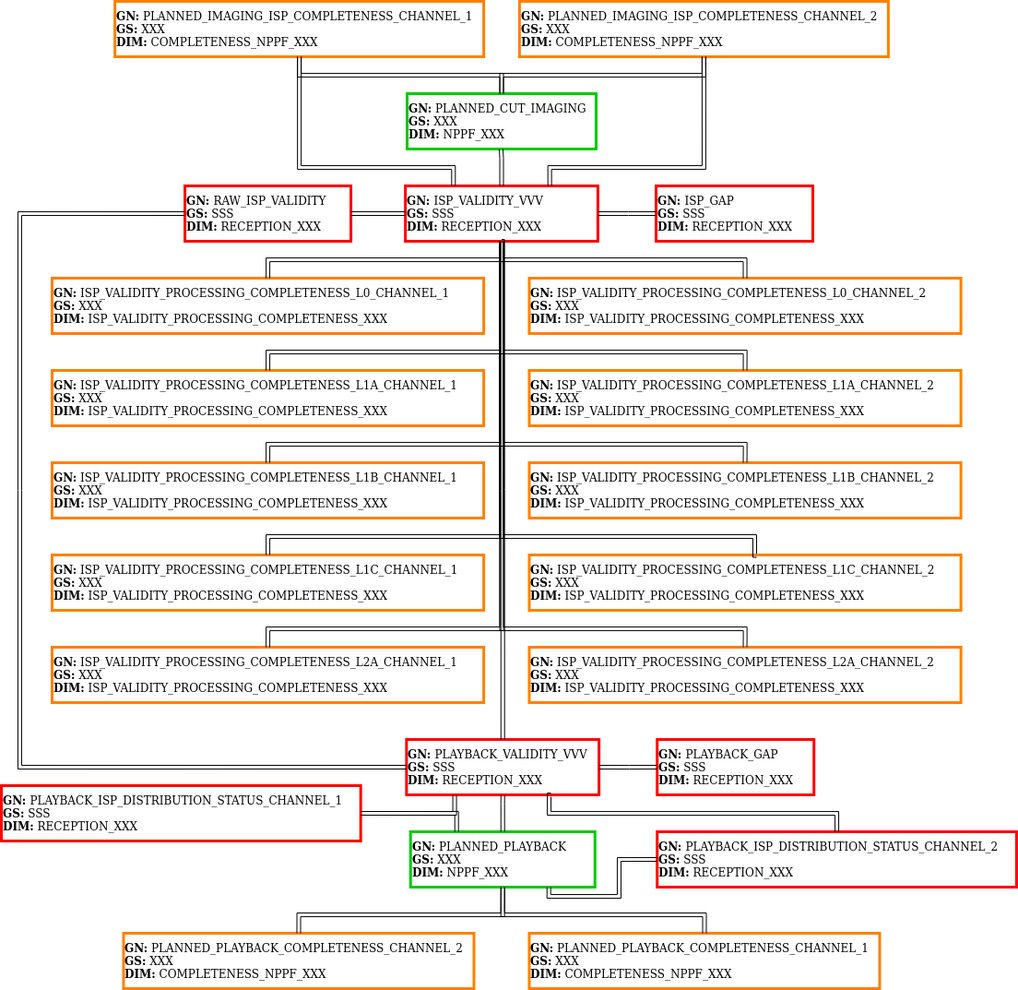
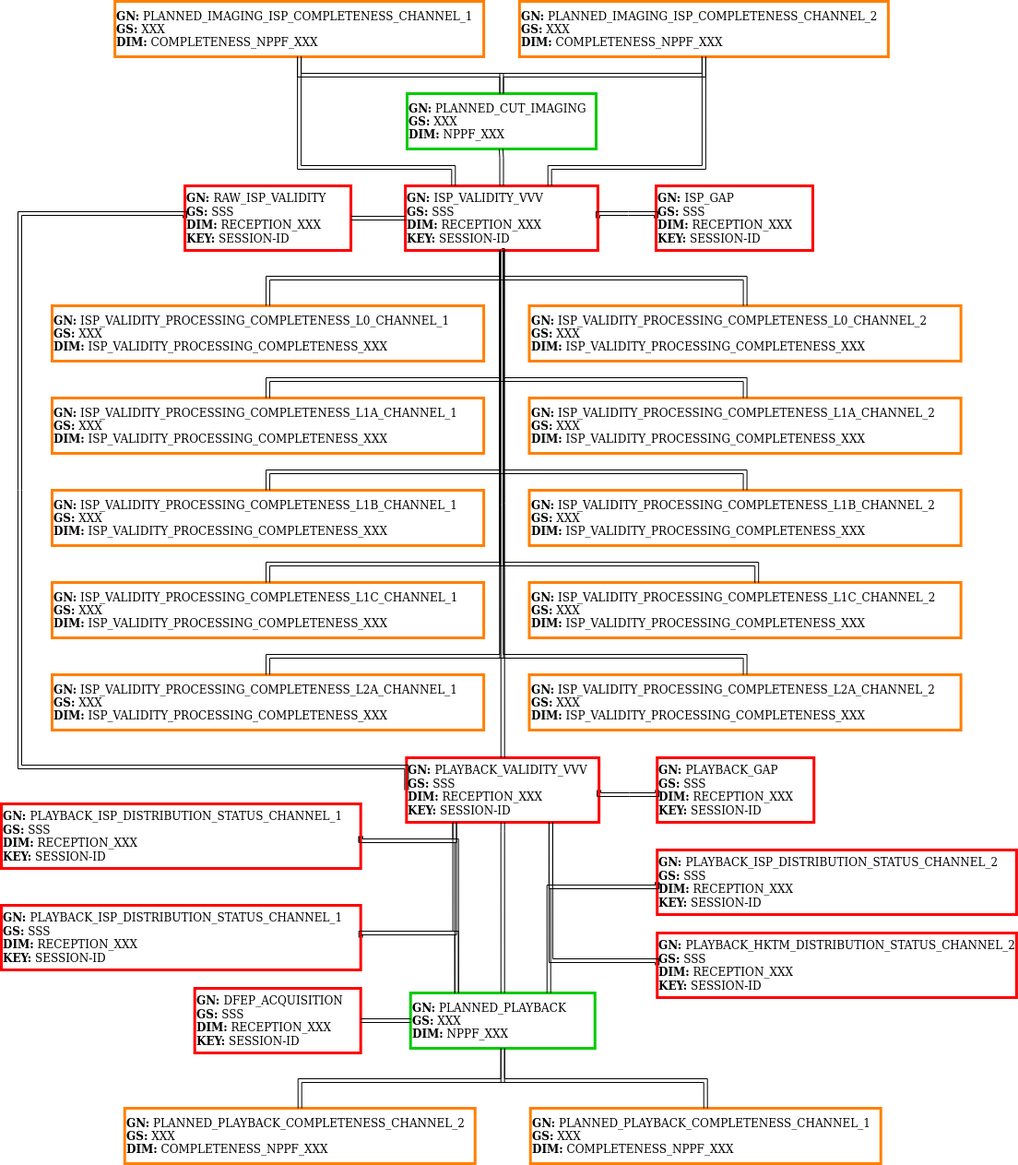
Finish documentation for REP_PASS file ingestion
Start documentation for REP_OPDPC file ingestion

Changed region(s): [[0.0, 0.0, 1.0, 1.0]]

diff --git a/doc/tex/ingestion_dfep_acquisition.tex b/doc/tex/ingestion_dfep_acquisition.tex
@@ -24,12 +24,12 @@ This module uses the following \acrshort{dim} signatures:
 
 Where XXX is the corresponding satellite id, SSS is the station ID and VVV is the \acrshort{vcid} number.
 
-The figure \ref{fg:structure_ingestion_dfep_acquisition} shows a simplified diagram of the structure of the data inserted (associated structure of values not included for simplicity).
+The figure \ref{fg:structure_ingestion_dfep_acquisition} shows a simplified diagram of the structure of events inserted (associated structure of values not included for simplicity).
 
 \begin{figure}[H]
   \begin{center}
 	\centering\includegraphics[width=150mm]{../fig/structure_ingestion_dfep_acquisition.png}
-	\caption{Structure of the data inserted by the ingestion module for the REP\_PASS\_[2|5] file}
+	\caption{Structure of events inserted by the ingestion module for the REP\_PASS\_[2|5] file}
 	\label{fg:structure_ingestion_dfep_acquisition}
   \end{center}
 \end{figure}
@@ -37,32 +37,32 @@ The figure \ref{fg:structure_ingestion_dfep_acquisition} shows a simplified diag
 The table \ref{tb:description_events_ingestion_dfep_acquisition} shows the description of the events inserted by the ingestion.
 
 \begin{landscape}
-\begin{longtable}{|M{0.15\linewidth}|M{0.05\linewidth}|M{0.15\linewidth}|M{0.2\linewidth}|M{0.15\linewidth}|M{0.15\linewidth}|}
-\hline \textbf{Gauge name} & \textbf{Gauge system}  & \textbf{DIM signature} & \textbf{Description} & \textbf{Start} & \textbf{Stop} \\ \hline
-\textbf{PLAYBACK\_VALIDITY\_VVV} & SSS & RECEPTION\_XXX & Event for representing the \textbf{ground acquisition operation} & UTC time associated to the start of the reception & UTC time associated to the stop of the reception \\ \hline
-\textbf{PLAYBACK\_GAP} & SSS & RECEPTION\_XXX & Event for representing a \textbf{gap in the ground acquisition operation} & UTC time associated to the start of the corresponding gap in the reception & UTC time associated to the stop of the corresponding gap in the reception \\ \hline
-\textbf{PLANNED\_PLAYBACK\_COMPLETENESS\_CHANNEL\_1} & XXX & COMPLETENESS\_NPPF\_XXX & Event for completing the \textbf{expectation of the planned playbacks through the channel 1} & Start of the reception through the channel 1 & Stop of the reception through the channel 1 \\ \hline
-\textbf{PLANNED\_PLAYBACK\_COMPLETENESS\_CHANNEL\_2} & XXX & COMPLETENESS\_NPPF\_XXX & Event for completing the \textbf{expectation of the planned playbacks through the channel 2} & Start of the reception through the channel 2 & Stop of the reception through the channel 2 \\ \hline
-\textbf{PLANNED\_IMAGING\_ISP\_COMPLETENESS\_CHANNEL\_1} & XXX & COMPLETENESS\_NPPF\_XXX & Event for completing the \textbf{expectation of the planned imaging sent through the channel 1} & Start of the first received scene thorugh the channel 1 of the corresponding continuous \acrshort{msi} segment & Stop of the last received scene thorugh the channel 1 of the corresponding continuous \acrshort{msi} segment \\ \hline
-\textbf{PLANNED\_IMAGING\_ISP\_COMPLETENESS\_CHANNEL\_2} & XXX & COMPLETENESS\_NPPF\_XXX & Event for completing the \textbf{expectation of the planned imaging sent through the channel 2} & Start of the first received scene thorugh the channel 2 of the corresponding continuous \acrshort{msi} segment & Stop of the last received scene thorugh the channel 2 of the corresponding continuous \acrshort{msi} segment \\ \hline
-\textbf{RAW\_ISP\_VALIDITY} & SSS & RECEPTION\_XXX & Event for representing the \textbf{ground acquisition operation} & Start of the first received scene & Stop of the last received scene \\ \hline
-\textbf{ISP\_VALIDITY} & SSS & RECEPTION\_XXX & Event for representing the \textbf{ground acquisition operation} & Start of the first received scene of the corresponding continuous \acrshort{msi} segment & Stop of the last received scene of the corresponding continuous \acrshort{msi} segment \\ \hline
-\textbf{ISP\_GAP} & SSS & RECEPTION\_XXX & Event for representing a \textbf{gap in the ground acquisition operation} & UTC time associated to the start of the corresponding continuous gap in the received MSI & UTC time associated to the stop of the corresponding continuous gap in the received MSI \\ \hline
-\textbf{PLAYBACK\_ISP\_DISTRIBUTION\_STATUS\_CHANNEL\_1} & SSS & RECEPTION\_XXX & Event for representing a \textbf{gap in the ground acquisition operation} & UTC time associated to the start of the \acrshort{msi} reception & UTC time associated to the stop of the \acrshort{msi} reception \\ \hline
-\textbf{PLAYBACK\_ISP\_DISTRIBUTION\_STATUS\_CHANNEL\_2} & SSS & RECEPTION\_XXX & Event for representing a \textbf{gap in the ground acquisition operation} & UTC time associated to the start of the \acrshort{msi} reception & UTC time associated to the stop of the \acrshort{msi} reception \\ \hline
-\textbf{PLAYBACK\_HKTM\_DISTRIBUTION\_STATUS\_CHANNEL\_1} & SSS & RECEPTION\_XXX & Event for representing a \textbf{gap in the ground acquisition operation} & UTC time associated to the start of the corresponding gap in the \acrshort{hktm} reception & UTC time associated to the stop of the corresponding gap in the \acrshort{hktm} reception \\ \hline
-\textbf{PLAYBACK\_HKTM\_DISTRIBUTION\_STATUS\_CHANNEL\_2} & SSS & RECEPTION\_XXX & Event for representing a \textbf{gap in the ground acquisition operation} & UTC time associated to the start of the corresponding gap in the \acrshort{hktm} reception & UTC time associated to the stop of the corresponding gap in the \acrshort{hktm} reception \\ \hline
-\textbf{DFEP\_ACQUISITION\_VALIDITY} & SSS & RECEPTION\_XXX & Event for representing a \textbf{gap in the ground acquisition operation} & UTC time associated to the validity start of the received file & UTC time associated to the validity stop of the received file \\ \hline
-\textbf{ISP\_VALIDITY\_PROCESSING\_COMPLETENESS\_L0\_CHANNEL\_1} & XXX & COMPLETENESS\_NPPF\_XXX & Event for representing the \textbf{expectation of the processing of the planned imaging for the L0} & Start of the first received scene of the corresponding continuous \acrshort{msi} segment & Stop of the last received scene of the corresponding continuous \acrshort{msi} segment \\ \hline
-\textbf{ISP\_VALIDITY\_PROCESSING\_COMPLETENESS\_L1A\_CHANNEL\_1} & XXX & COMPLETENESS\_NPPF\_XXX & Event for representing the \textbf{expectation of the processing of the planned imaging for the L0} & Start of the first received scene of the corresponding continuous \acrshort{msi} segment & Stop of the last received scene of the corresponding continuous \acrshort{msi} segment \\ \hline
-\textbf{ISP\_VALIDITY\_PROCESSING\_COMPLETENESS\_L1B\_CHANNEL\_1} & XXX & COMPLETENESS\_NPPF\_XXX & Event for representing the \textbf{expectation of the processing of the planned imaging for the L0} & Start of the first received scene of the corresponding continuous \acrshort{msi} segment & Stop of the last received scene of the corresponding continuous \acrshort{msi} segment \\ \hline
-\textbf{ISP\_VALIDITY\_PROCESSING\_COMPLETENESS\_L1C\_CHANNEL\_1} & XXX & COMPLETENESS\_NPPF\_XXX & Event for representing the \textbf{expectation of the processing of the planned imaging for the L0} & Start of the first received scene of the corresponding continuous \acrshort{msi} segment & Stop of the last received scene of the corresponding continuous \acrshort{msi} segment \\ \hline
-\textbf{ISP\_VALIDITY\_PROCESSING\_COMPLETENESS\_L2A\_CHANNEL\_1} & XXX & COMPLETENESS\_NPPF\_XXX & Event for representing the \textbf{expectation of the processing of the planned imaging for the L0} & Start of the first received scene of the corresponding continuous \acrshort{msi} segment & Stop of the last received scene of the corresponding continuous \acrshort{msi} segment \\ \hline
-\textbf{ISP\_VALIDITY\_PROCESSING\_COMPLETENESS\_L0\_CHANNEL\_2} & XXX & COMPLETENESS\_NPPF\_XXX & Event for representing the \textbf{expectation of the processing of the planned imaging for the L0} & Start of the first received scene of the corresponding continuous \acrshort{msi} segment & Stop of the last received scene of the corresponding continuous \acrshort{msi} segment \\ \hline
-\textbf{ISP\_VALIDITY\_PROCESSING\_COMPLETENESS\_L1A\_CHANNEL\_2} & XXX & COMPLETENESS\_NPPF\_XXX & Event for representing the \textbf{expectation of the processing of the planned imaging for the L0} & Start of the first received scene of the corresponding continuous \acrshort{msi} segment & Stop of the last received scene of the corresponding continuous \acrshort{msi} segment \\ \hline
-\textbf{ISP\_VALIDITY\_PROCESSING\_COMPLETENESS\_L1B\_CHANNEL\_2} & XXX & COMPLETENESS\_NPPF\_XXX & Event for representing the \textbf{expectation of the processing of the planned imaging for the L0} & Start of the first received scene of the corresponding continuous \acrshort{msi} segment & Stop of the last received scene of the corresponding continuous \acrshort{msi} segment \\ \hline
-\textbf{ISP\_VALIDITY\_PROCESSING\_COMPLETENESS\_L1C\_CHANNEL\_2} & XXX & COMPLETENESS\_NPPF\_XXX & Event for representing the \textbf{expectation of the processing of the planned imaging for the L0} & Start of the first received scene of the corresponding continuous \acrshort{msi} segment & Stop of the last received scene of the corresponding continuous \acrshort{msi} segment \\ \hline
-\textbf{ISP\_VALIDITY\_PROCESSING\_COMPLETENESS\_L2A\_CHANNEL\_2} & XXX & COMPLETENESS\_NPPF\_XXX & Event for representing the \textbf{expectation of the processing of the planned imaging for the L0} & Start of the first received scene of the corresponding continuous \acrshort{msi} segment & Stop of the last received scene of the corresponding continuous \acrshort{msi} segment \\ \hline
+\begin{longtable}{|M{0.15\linewidth}|M{0.05\linewidth}|M{0.10\linewidth}|M{0.10\linewidth}|M{0.15\linewidth}|M{0.15\linewidth}|M{0.15\linewidth}|}
+\hline \textbf{Gauge name} & \textbf{Gauge system} & \textbf{DIM signature} & \textbf{Insertion mode} & \textbf{Description} & \textbf{Start} & \textbf{Stop} \\ \hline
+\textbf{PLAYBACK\_VALIDITY\_VVV} & SSS & \- RECEPTION\_XXX & EVENT\_KEYS (insert) [KEY: SESSION-ID] & Event for representing the \textbf{ground acquisition operation} & UTC time associated to the start of the reception & UTC time associated to the stop of the reception \\ \hline
+\textbf{PLAYBACK\_GAP} & SSS & \- RECEPTION\_XXX & EVENT\_KEYS (insert) [KEY: SESSION-ID] & Event for representing a \textbf{gap in the ground acquisition operation} & UTC time associated to the start of the corresponding gap in the reception & UTC time associated to the stop of the corresponding gap in the reception \\ \hline
+\textbf{PLANNED\_PLAYBACK\_COMPLETENESS\_CHANNEL\_1} & XXX & \- COMPLETENESS\_NPPF\_XXX & ERASE\_and\_REPLACE\_per\_EVENT (insert) & Event for completing the \textbf{expectation of the planned playbacks through the channel 1} & Start of the reception through the channel 1 & Stop of the reception through the channel 1 \\ \hline
+\textbf{PLANNED\_PLAYBACK\_COMPLETENESS\_CHANNEL\_2} & XXX & \- COMPLETENESS\_NPPF\_XXX & ERASE\_and\_REPLACE\_per\_EVENT (insert) & Event for completing the \textbf{expectation of the planned playbacks through the channel 2} & Start of the reception through the channel 2 & Stop of the reception through the channel 2 \\ \hline
+\textbf{PLANNED\_IMAGING\_ISP\_COMPLETENESS\_CHANNEL\_1} & XXX & \- COMPLETENESS\_NPPF\_XXX & ERASE\_and\_REPLACE\_per\_EVENT (insert) & Event for completing the \textbf{expectation of the planned imaging sent through the channel 1} & Start of the first received scene thorugh the channel 1 of the corresponding continuous \acrshort{msi} segment & Stop of the last received scene thorugh the channel 1 of the corresponding continuous \acrshort{msi} segment \\ \hline
+\textbf{PLANNED\_IMAGING\_ISP\_COMPLETENESS\_CHANNEL\_2} & XXX & \- COMPLETENESS\_NPPF\_XXX & ERASE\_and\_REPLACE\_per\_EVENT (insert) & Event for completing the \textbf{expectation of the planned imaging sent through the channel 2} & Start of the first received scene thorugh the channel 2 of the corresponding continuous \acrshort{msi} segment & Stop of the last received scene thorugh the channel 2 of the corresponding continuous \acrshort{msi} segment \\ \hline
+\textbf{RAW\_ISP\_VALIDITY} & SSS & \- RECEPTION\_XXX & EVENT\_KEYS (insert) [KEY: SESSION-ID] & Event for representing the \textbf{ground acquisition operation} & Start of the first received scene & Stop of the last received scene \\ \hline
+\textbf{ISP\_VALIDITY} & SSS & \- RECEPTION\_XXX & EVENT\_KEYS (insert) [KEY: SESSION-ID] & Event for representing the \textbf{ground acquisition operation} & Start of the first received scene of the corresponding continuous \acrshort{msi} segment & Stop of the last received scene of the corresponding continuous \acrshort{msi} segment \\ \hline
+\textbf{ISP\_GAP} & SSS & \- RECEPTION\_XXX & EVENT\_KEYS (insert) [KEY: SESSION-ID] & Event for representing a \textbf{gap in the ground acquisition operation} & UTC time associated to the start of the corresponding continuous gap in the received MSI & UTC time associated to the stop of the corresponding continuous gap in the received MSI \\ \hline
+\textbf{PLAYBACK\_ISP\_DISTRIBUTION\_STATUS\_CHANNEL\_1} & SSS & \- RECEPTION\_XXX & EVENT\_KEYS (insert) [KEY: SESSION-ID] & Event for representing a \textbf{gap in the ground acquisition operation} & UTC time associated to the start of the \acrshort{msi} reception & UTC time associated to the stop of the \acrshort{msi} reception \\ \hline
+\textbf{PLAYBACK\_ISP\_DISTRIBUTION\_STATUS\_CHANNEL\_2} & SSS & \- RECEPTION\_XXX & EVENT\_KEYS (insert) [KEY: SESSION-ID] & Event for representing a \textbf{gap in the ground acquisition operation} & UTC time associated to the start of the \acrshort{msi} reception & UTC time associated to the stop of the \acrshort{msi} reception \\ \hline
+\textbf{PLAYBACK\_HKTM\_DISTRIBUTION\_STATUS\_CHANNEL\_1} & SSS & \- RECEPTION\_XXX & EVENT\_KEYS (insert) [KEY: SESSION-ID] & Event for representing a \textbf{gap in the ground acquisition operation} & UTC time associated to the start of the corresponding gap in the \acrshort{hktm} reception & UTC time associated to the stop of the corresponding gap in the \acrshort{hktm} reception \\ \hline
+\textbf{PLAYBACK\_HKTM\_DISTRIBUTION\_STATUS\_CHANNEL\_2} & SSS & \- RECEPTION\_XXX & EVENT\_KEYS (insert) [KEY: SESSION-ID] & Event for representing a \textbf{gap in the ground acquisition operation} & UTC time associated to the start of the corresponding gap in the \acrshort{hktm} reception & UTC time associated to the stop of the corresponding gap in the \acrshort{hktm} reception \\ \hline
+\textbf{DFEP\_ACQUISITION\_VALIDITY} & SSS & \- RECEPTION\_XXX & EVENT\_KEYS (insert) [KEY: SESSION-ID] & Event for representing a \textbf{gap in the ground acquisition operation} & UTC time associated to the validity start of the received file & UTC time associated to the validity stop of the received file \\ \hline
+\textbf{ISP\_VALIDITY\_PROCESSING\_COMPLETENESS\_L0\_CHANNEL\_1} & XXX & \- COMPLETENESS\_NPPF\_XXX & ERASE\_and\_REPLACE\_per\_EVENT (insert) & Event for representing the \textbf{expectation of the processing of the planned imaging for the L0} & Start of the first received scene of the corresponding continuous \acrshort{msi} segment & Stop of the last received scene of the corresponding continuous \acrshort{msi} segment \\ \hline
+\textbf{ISP\_VALIDITY\_PROCESSING\_COMPLETENESS\_L1A\_CHANNEL\_1} & XXX & \- COMPLETENESS\_NPPF\_XXX & ERASE\_and\_REPLACE\_per\_EVENT (insert) & Event for representing the \textbf{expectation of the processing of the planned imaging for the L0} & Start of the first received scene of the corresponding continuous \acrshort{msi} segment & Stop of the last received scene of the corresponding continuous \acrshort{msi} segment \\ \hline
+\textbf{ISP\_VALIDITY\_PROCESSING\_COMPLETENESS\_L1B\_CHANNEL\_1} & XXX & \- COMPLETENESS\_NPPF\_XXX & ERASE\_and\_REPLACE\_per\_EVENT (insert) & Event for representing the \textbf{expectation of the processing of the planned imaging for the L0} & Start of the first received scene of the corresponding continuous \acrshort{msi} segment & Stop of the last received scene of the corresponding continuous \acrshort{msi} segment \\ \hline
+\textbf{ISP\_VALIDITY\_PROCESSING\_COMPLETENESS\_L1C\_CHANNEL\_1} & XXX & \- COMPLETENESS\_NPPF\_XXX & ERASE\_and\_REPLACE\_per\_EVENT (insert) & Event for representing the \textbf{expectation of the processing of the planned imaging for the L0} & Start of the first received scene of the corresponding continuous \acrshort{msi} segment & Stop of the last received scene of the corresponding continuous \acrshort{msi} segment \\ \hline
+\textbf{ISP\_VALIDITY\_PROCESSING\_COMPLETENESS\_L2A\_CHANNEL\_1} & XXX & \- COMPLETENESS\_NPPF\_XXX & ERASE\_and\_REPLACE\_per\_EVENT (insert) & Event for representing the \textbf{expectation of the processing of the planned imaging for the L0} & Start of the first received scene of the corresponding continuous \acrshort{msi} segment & Stop of the last received scene of the corresponding continuous \acrshort{msi} segment \\ \hline
+\textbf{ISP\_VALIDITY\_PROCESSING\_COMPLETENESS\_L0\_CHANNEL\_2} & XXX & \- COMPLETENESS\_NPPF\_XXX & ERASE\_and\_REPLACE\_per\_EVENT (insert) & Event for representing the \textbf{expectation of the processing of the planned imaging for the L0} & Start of the first received scene of the corresponding continuous \acrshort{msi} segment & Stop of the last received scene of the corresponding continuous \acrshort{msi} segment \\ \hline
+\textbf{ISP\_VALIDITY\_PROCESSING\_COMPLETENESS\_L1A\_CHANNEL\_2} & XXX & \- COMPLETENESS\_NPPF\_XXX & ERASE\_and\_REPLACE\_per\_EVENT (insert) & Event for representing the \textbf{expectation of the processing of the planned imaging for the L0} & Start of the first received scene of the corresponding continuous \acrshort{msi} segment & Stop of the last received scene of the corresponding continuous \acrshort{msi} segment \\ \hline
+\textbf{ISP\_VALIDITY\_PROCESSING\_COMPLETENESS\_L1B\_CHANNEL\_2} & XXX & \- COMPLETENESS\_NPPF\_XXX & ERASE\_and\_REPLACE\_per\_EVENT (insert) & Event for representing the \textbf{expectation of the processing of the planned imaging for the L0} & Start of the first received scene of the corresponding continuous \acrshort{msi} segment & Stop of the last received scene of the corresponding continuous \acrshort{msi} segment \\ \hline
+\textbf{ISP\_VALIDITY\_PROCESSING\_COMPLETENESS\_L1C\_CHANNEL\_2} & XXX & \- COMPLETENESS\_NPPF\_XXX & ERASE\_and\_REPLACE\_per\_EVENT (insert) & Event for representing the \textbf{expectation of the processing of the planned imaging for the L0} & Start of the first received scene of the corresponding continuous \acrshort{msi} segment & Stop of the last received scene of the corresponding continuous \acrshort{msi} segment \\ \hline
+\textbf{ISP\_VALIDITY\_PROCESSING\_COMPLETENESS\_L2A\_CHANNEL\_2} & XXX & \- COMPLETENESS\_NPPF\_XXX & ERASE\_and\_REPLACE\_per\_EVENT (insert) & Event for representing the \textbf{expectation of the processing of the planned imaging for the L0} & Start of the first received scene of the corresponding continuous \acrshort{msi} segment & Stop of the last received scene of the corresponding continuous \acrshort{msi} segment \\ \hline
 \caption{Table describing the events associated to the ingestion}
 \label{tb:description_events_ingestion_dfep_acquisition}
 \end{longtable}

diff --git a/doc/tex/ingestion_eisp.tex b/doc/tex/ingestion_eisp.tex
@@ -26,12 +26,12 @@ This module uses the following \acrshort{dim} signatures:
 
 Where XXX is the corresponding satellite id, SSS is the station ID and VVV is the \acrshort{vcid} number.
 
-The figure \ref{fg:structure_ingestion_eisp} shows a simplified diagram of the structure of the data inserted (associated structure of values not included for simplicity).
+The figure \ref{fg:structure_ingestion_eisp} shows a simplified diagram of the structure of events inserted (associated structure of values not included for simplicity).
 
 \begin{figure}[H]
   \begin{center}
 	\centering\includegraphics[width=150mm]{../fig/structure_ingestion_eisp.png}
-	\caption{Structure of the data inserted by the ingestion module for the REP\_PASS\_[2|5] file}
+	\caption{Structure of events inserted by the ingestion module for the REP\_PASS\_[2|5] file}
 	\label{fg:structure_ingestion_eisp}
   \end{center}
 \end{figure}
@@ -39,27 +39,27 @@ The figure \ref{fg:structure_ingestion_eisp} shows a simplified diagram of the s
 The table \ref{tb:description_events_ingestion_eisp} shows the description of the events inserted by the ingestion.
 
 \begin{landscape}
-\begin{longtable}{|M{0.15\linewidth}|M{0.05\linewidth}|M{0.15\linewidth}|M{0.2\linewidth}|M{0.15\linewidth}|M{0.15\linewidth}|}
-\hline \textbf{Gauge name} & \textbf{Gauge system}  & \textbf{DIM signature} & \textbf{Description} & \textbf{Start} & \textbf{Stop} \\ \hline
-\textbf{PLAYBACK\_VALIDITY\_VVV} & SSS & RECEPTION\_XXX & Event for representing the \textbf{ground acquisition operation} & UTC time associated to the start of the reception & UTC time associated to the stop of the reception \\ \hline
-\textbf{PLAYBACK\_GAP} & SSS & RECEPTION\_XXX & Event for representing a \textbf{gap in the ground acquisition operation} & UTC time associated to the start of the corresponding gap in the reception & UTC time associated to the stop of the corresponding gap in the reception \\ \hline
-\textbf{PLANNED\_PLAYBACK\_COMPLETENESS\_CHANNEL\_1} & XXX & COMPLETENESS\_NPPF\_XXX & Event for completing the \textbf{expectation of the planned playbacks through the channel 1} & Start of the reception through the channel 1 & Stop of the reception through the channel 1 \\ \hline
-\textbf{PLANNED\_PLAYBACK\_COMPLETENESS\_CHANNEL\_2} & XXX & COMPLETENESS\_NPPF\_XXX & Event for completing the \textbf{expectation of the planned playbacks through the channel 2} & Start of the reception through the channel 2 & Stop of the reception through the channel 2 \\ \hline
-\textbf{PLANNED\_IMAGING\_ISP\_COMPLETENESS\_CHANNEL\_1} & XXX & COMPLETENESS\_NPPF\_XXX & Event for completing the \textbf{expectation of the planned imaging sent through the channel 1} & Start of the first received scene thorugh the channel 1 of the corresponding continuous \acrshort{msi} segment & Stop of the last received scene thorugh the channel 1 of the corresponding continuous \acrshort{msi} segment \\ \hline
-\textbf{PLANNED\_IMAGING\_ISP\_COMPLETENESS\_CHANNEL\_2} & XXX & COMPLETENESS\_NPPF\_XXX & Event for completing the \textbf{expectation of the planned imaging sent through the channel 2} & Start of the first received scene thorugh the channel 2 of the corresponding continuous \acrshort{msi} segment & Stop of the last received scene thorugh the channel 2 of the corresponding continuous \acrshort{msi} segment \\ \hline
-\textbf{RAW\_ISP\_VALIDITY} & SSS & RECEPTION\_XXX & Event for representing the \textbf{ground acquisition operation} & Start of the first received scene & Stop of the last received scene \\ \hline
-\textbf{ISP\_VALIDITY} & SSS & RECEPTION\_XXX & Event for representing the \textbf{ground acquisition operation} & Start of the first received scene of the corresponding continuous \acrshort{msi} segment & Stop of the last received scene of the corresponding continuous \acrshort{msi} segment \\ \hline
-\textbf{ISP\_GAP} & SSS & RECEPTION\_XXX & Event for representing a \textbf{gap in the ground acquisition operation} & UTC time associated to the start of the corresponding continuous gap in the received MSI & UTC time associated to the stop of the corresponding continuous gap in the received MSI \\ \hline
-\textbf{ISP\_VALIDITY\_PROCESSING\_COMPLETENESS\_L0\_CHANNEL\_1} & XXX & COMPLETENESS\_NPPF\_XXX & Event for representing the \textbf{expectation of the processing of the planned imaging for the L0} & Start of the first received scene of the corresponding continuous \acrshort{msi} segment & Stop of the last received scene of the corresponding continuous \acrshort{msi} segment \\ \hline
-\textbf{ISP\_VALIDITY\_PROCESSING\_COMPLETENESS\_L1A\_CHANNEL\_1} & XXX & COMPLETENESS\_NPPF\_XXX & Event for representing the \textbf{expectation of the processing of the planned imaging for the L0} & Start of the first received scene of the corresponding continuous \acrshort{msi} segment & Stop of the last received scene of the corresponding continuous \acrshort{msi} segment \\ \hline
-\textbf{ISP\_VALIDITY\_PROCESSING\_COMPLETENESS\_L1B\_CHANNEL\_1} & XXX & COMPLETENESS\_NPPF\_XXX & Event for representing the \textbf{expectation of the processing of the planned imaging for the L0} & Start of the first received scene of the corresponding continuous \acrshort{msi} segment & Stop of the last received scene of the corresponding continuous \acrshort{msi} segment \\ \hline
-\textbf{ISP\_VALIDITY\_PROCESSING\_COMPLETENESS\_L1C\_CHANNEL\_1} & XXX & COMPLETENESS\_NPPF\_XXX & Event for representing the \textbf{expectation of the processing of the planned imaging for the L0} & Start of the first received scene of the corresponding continuous \acrshort{msi} segment & Stop of the last received scene of the corresponding continuous \acrshort{msi} segment \\ \hline
-\textbf{ISP\_VALIDITY\_PROCESSING\_COMPLETENESS\_L2A\_CHANNEL\_1} & XXX & COMPLETENESS\_NPPF\_XXX & Event for representing the \textbf{expectation of the processing of the planned imaging for the L0} & Start of the first received scene of the corresponding continuous \acrshort{msi} segment & Stop of the last received scene of the corresponding continuous \acrshort{msi} segment \\ \hline
-\textbf{ISP\_VALIDITY\_PROCESSING\_COMPLETENESS\_L0\_CHANNEL\_2} & XXX & COMPLETENESS\_NPPF\_XXX & Event for representing the \textbf{expectation of the processing of the planned imaging for the L0} & Start of the first received scene of the corresponding continuous \acrshort{msi} segment & Stop of the last received scene of the corresponding continuous \acrshort{msi} segment \\ \hline
-\textbf{ISP\_VALIDITY\_PROCESSING\_COMPLETENESS\_L1A\_CHANNEL\_2} & XXX & COMPLETENESS\_NPPF\_XXX & Event for representing the \textbf{expectation of the processing of the planned imaging for the L0} & Start of the first received scene of the corresponding continuous \acrshort{msi} segment & Stop of the last received scene of the corresponding continuous \acrshort{msi} segment \\ \hline
-\textbf{ISP\_VALIDITY\_PROCESSING\_COMPLETENESS\_L1B\_CHANNEL\_2} & XXX & COMPLETENESS\_NPPF\_XXX & Event for representing the \textbf{expectation of the processing of the planned imaging for the L0} & Start of the first received scene of the corresponding continuous \acrshort{msi} segment & Stop of the last received scene of the corresponding continuous \acrshort{msi} segment \\ \hline
-\textbf{ISP\_VALIDITY\_PROCESSING\_COMPLETENESS\_L1C\_CHANNEL\_2} & XXX & COMPLETENESS\_NPPF\_XXX & Event for representing the \textbf{expectation of the processing of the planned imaging for the L0} & Start of the first received scene of the corresponding continuous \acrshort{msi} segment & Stop of the last received scene of the corresponding continuous \acrshort{msi} segment \\ \hline
-\textbf{ISP\_VALIDITY\_PROCESSING\_COMPLETENESS\_L2A\_CHANNEL\_2} & XXX & COMPLETENESS\_NPPF\_XXX & Event for representing the \textbf{expectation of the processing of the planned imaging for the L0} & Start of the first received scene of the corresponding continuous \acrshort{msi} segment & Stop of the last received scene of the corresponding continuous \acrshort{msi} segment \\ \hline
+\begin{longtable}{|M{0.15\linewidth}|M{0.05\linewidth}|M{0.10\linewidth}|M{0.10\linewidth}|M{0.15\linewidth}|M{0.15\linewidth}|M{0.15\linewidth}|}
+\hline \textbf{Gauge name} & \textbf{Gauge system} & \textbf{DIM signature} & \textbf{Insertion mode} & \textbf{Description} & \textbf{Start} & \textbf{Stop} \\ \hline
+\textbf{PLAYBACK\_VALIDITY\_VVV} & SSS & \- RECEPTION\_XXX & EVENT\_KEYS (insert) [KEY: SESSION-ID\_CHANNEL\_[1|2]] & Event for representing the \textbf{ground acquisition operation} & UTC time associated to the start of the reception & UTC time associated to the stop of the reception \\ \hline
+\textbf{PLAYBACK\_GAP} & SSS & \- RECEPTION\_XXX & EVENT\_KEYS (insert) [KEY: SESSION-ID\_CHANNEL\_[1|2]] & Event for representing a \textbf{gap in the ground acquisition operation} & UTC time associated to the start of the corresponding gap in the reception & UTC time associated to the stop of the corresponding gap in the reception \\ \hline
+\textbf{PLANNED\_PLAYBACK\_COMPLETENESS\_CHANNEL\_1} & XXX & \- COMPLETENESS\_NPPF\_XXX & ERASE\_and\_REPLACE\_per\_EVENT (insert) & Event for completing the \textbf{expectation of the planned playbacks through the channel 1} & Start of the reception through the channel 1 & Stop of the reception through the channel 1 \\ \hline
+\textbf{PLANNED\_PLAYBACK\_COMPLETENESS\_CHANNEL\_2} & XXX & \- COMPLETENESS\_NPPF\_XXX & ERASE\_and\_REPLACE\_per\_EVENT (insert) & Event for completing the \textbf{expectation of the planned playbacks through the channel 2} & Start of the reception through the channel 2 & Stop of the reception through the channel 2 \\ \hline
+\textbf{PLANNED\_IMAGING\_ISP\_COMPLETENESS\_CHANNEL\_1} & XXX & \- COMPLETENESS\_NPPF\_XXX & ERASE\_and\_REPLACE\_per\_EVENT (insert) & Event for completing the \textbf{expectation of the planned imaging sent through the channel 1} & Start of the first received scene thorugh the channel 1 of the corresponding continuous \acrshort{msi} segment & Stop of the last received scene thorugh the channel 1 of the corresponding continuous \acrshort{msi} segment \\ \hline
+\textbf{PLANNED\_IMAGING\_ISP\_COMPLETENESS\_CHANNEL\_2} & XXX & \- COMPLETENESS\_NPPF\_XXX & ERASE\_and\_REPLACE\_per\_EVENT (insert) & Event for completing the \textbf{expectation of the planned imaging sent through the channel 2} & Start of the first received scene thorugh the channel 2 of the corresponding continuous \acrshort{msi} segment & Stop of the last received scene thorugh the channel 2 of the corresponding continuous \acrshort{msi} segment \\ \hline
+\textbf{RAW\_ISP\_VALIDITY} & SSS & \- RECEPTION\_XXX & EVENT\_KEYS (insert) [KEY: SESSION-ID\_CHANNEL\_[1|2]] & Event for representing the \textbf{ground acquisition operation} & Start of the first received scene & Stop of the last received scene \\ \hline
+\textbf{ISP\_VALIDITY} & SSS & \- RECEPTION\_XXX & EVENT\_KEYS (insert) [KEY: SESSION-ID\_CHANNEL\_[1|2]] & Event for representing the \textbf{ground acquisition operation} & Start of the first received scene of the corresponding continuous \acrshort{msi} segment & Stop of the last received scene of the corresponding continuous \acrshort{msi} segment \\ \hline
+\textbf{ISP\_GAP} & SSS & \- RECEPTION\_XXX & EVENT\_KEYS (insert) [KEY: SESSION-ID\_CHANNEL\_[1|2]] & Event for representing a \textbf{gap in the ground acquisition operation} & UTC time associated to the start of the corresponding continuous gap in the received MSI & UTC time associated to the stop of the corresponding continuous gap in the received MSI \\ \hline
+\textbf{ISP\_VALIDITY\_PROCESSING\_COMPLETENESS\_L0\_CHANNEL\_1} & XXX & \- COMPLETENESS\_NPPF\_XXX & ERASE\_and\_REPLACE\_per\_EVENT (insert) & Event for representing the \textbf{expectation of the processing of the planned imaging for the L0} & Start of the first received scene of the corresponding continuous \acrshort{msi} segment & Stop of the last received scene of the corresponding continuous \acrshort{msi} segment \\ \hline
+\textbf{ISP\_VALIDITY\_PROCESSING\_COMPLETENESS\_L1A\_CHANNEL\_1} & XXX & \- COMPLETENESS\_NPPF\_XXX & ERASE\_and\_REPLACE\_per\_EVENT (insert) & Event for representing the \textbf{expectation of the processing of the planned imaging for the L0} & Start of the first received scene of the corresponding continuous \acrshort{msi} segment & Stop of the last received scene of the corresponding continuous \acrshort{msi} segment \\ \hline
+\textbf{ISP\_VALIDITY\_PROCESSING\_COMPLETENESS\_L1B\_CHANNEL\_1} & XXX & \- COMPLETENESS\_NPPF\_XXX & ERASE\_and\_REPLACE\_per\_EVENT (insert) & Event for representing the \textbf{expectation of the processing of the planned imaging for the L0} & Start of the first received scene of the corresponding continuous \acrshort{msi} segment & Stop of the last received scene of the corresponding continuous \acrshort{msi} segment \\ \hline
+\textbf{ISP\_VALIDITY\_PROCESSING\_COMPLETENESS\_L1C\_CHANNEL\_1} & XXX & \- COMPLETENESS\_NPPF\_XXX & ERASE\_and\_REPLACE\_per\_EVENT (insert) & Event for representing the \textbf{expectation of the processing of the planned imaging for the L0} & Start of the first received scene of the corresponding continuous \acrshort{msi} segment & Stop of the last received scene of the corresponding continuous \acrshort{msi} segment \\ \hline
+\textbf{ISP\_VALIDITY\_PROCESSING\_COMPLETENESS\_L2A\_CHANNEL\_1} & XXX & \- COMPLETENESS\_NPPF\_XXX & ERASE\_and\_REPLACE\_per\_EVENT (insert) & Event for representing the \textbf{expectation of the processing of the planned imaging for the L0} & Start of the first received scene of the corresponding continuous \acrshort{msi} segment & Stop of the last received scene of the corresponding continuous \acrshort{msi} segment \\ \hline
+\textbf{ISP\_VALIDITY\_PROCESSING\_COMPLETENESS\_L0\_CHANNEL\_2} & XXX & \- COMPLETENESS\_NPPF\_XXX & ERASE\_and\_REPLACE\_per\_EVENT (insert) & Event for representing the \textbf{expectation of the processing of the planned imaging for the L0} & Start of the first received scene of the corresponding continuous \acrshort{msi} segment & Stop of the last received scene of the corresponding continuous \acrshort{msi} segment \\ \hline
+\textbf{ISP\_VALIDITY\_PROCESSING\_COMPLETENESS\_L1A\_CHANNEL\_2} & XXX & \- COMPLETENESS\_NPPF\_XXX & ERASE\_and\_REPLACE\_per\_EVENT (insert) & Event for representing the \textbf{expectation of the processing of the planned imaging for the L0} & Start of the first received scene of the corresponding continuous \acrshort{msi} segment & Stop of the last received scene of the corresponding continuous \acrshort{msi} segment \\ \hline
+\textbf{ISP\_VALIDITY\_PROCESSING\_COMPLETENESS\_L1B\_CHANNEL\_2} & XXX & \- COMPLETENESS\_NPPF\_XXX & ERASE\_and\_REPLACE\_per\_EVENT (insert) & Event for representing the \textbf{expectation of the processing of the planned imaging for the L0} & Start of the first received scene of the corresponding continuous \acrshort{msi} segment & Stop of the last received scene of the corresponding continuous \acrshort{msi} segment \\ \hline
+\textbf{ISP\_VALIDITY\_PROCESSING\_COMPLETENESS\_L1C\_CHANNEL\_2} & XXX & \- COMPLETENESS\_NPPF\_XXX & ERASE\_and\_REPLACE\_per\_EVENT (insert) & Event for representing the \textbf{expectation of the processing of the planned imaging for the L0} & Start of the first received scene of the corresponding continuous \acrshort{msi} segment & Stop of the last received scene of the corresponding continuous \acrshort{msi} segment \\ \hline
+\textbf{ISP\_VALIDITY\_PROCESSING\_COMPLETENESS\_L2A\_CHANNEL\_2} & XXX & \- COMPLETENESS\_NPPF\_XXX & ERASE\_and\_REPLACE\_per\_EVENT (insert) & Event for representing the \textbf{expectation of the processing of the planned imaging for the L0} & Start of the first received scene of the corresponding continuous \acrshort{msi} segment & Stop of the last received scene of the corresponding continuous \acrshort{msi} segment \\ \hline
 \caption{Table describing the events associated to the ingestion}
 \label{tb:description_events_ingestion_eisp}
 \end{longtable}

diff --git a/doc/tex/ingestion_orbpre.tex b/doc/tex/ingestion_orbpre.tex
@@ -24,12 +24,12 @@ This module uses the following \acrshort{dim} signatures:
 
 Where XXX is the corresponding satellite id.
 
-The figure \ref{fg:structure_ingestion_orbpre} shows a simplified diagram of the structure of the data inserted (associated structure of values not included for simplicity).
+The figure \ref{fg:structure_ingestion_orbpre} shows a simplified diagram of the structure of events inserted (associated structure of values not included for simplicity).
 
 \begin{figure}[H]
   \begin{center}
 	\centering\includegraphics[width=150mm]{../fig/structure_ingestion_orbpre.png}
-	\caption{Structure of the data inserted by the ingestion module for the MPL\_ORBPRE file}
+	\caption{Structure of events inserted by the ingestion module for the MPL\_ORBPRE file}
 	\label{fg:structure_ingestion_orbpre}
   \end{center}
 \end{figure}
@@ -41,7 +41,7 @@ The table \ref{tb:description_events_ingestion_orbpre} shows the description of 
 \begin{landscape}
 \begin{longtable}{|M{0.15\linewidth}|M{0.05\linewidth}|M{0.10\linewidth}|M{0.10\linewidth}|M{0.15\linewidth}|M{0.15\linewidth}|M{0.15\linewidth}|}
 \hline \textbf{Gauge name} & \textbf{Gauge system} & \textbf{DIM signature} & \textbf{Insertion mode} & \textbf{Description} & \textbf{Start} & \textbf{Stop} \\ \hline
-\textbf{ORBIT\_PREDICTION} & XXX & ORBIT\_PREDICTION\_XXX\_YYY & EVENT\_KEYS (insert) & Event for representing the \textbf{orbit predition information of a specific orbit} & UTC time related to the ANX of orbit N & UTC time related to the ANX of orbit N + 1 \\ \hline
+\textbf{ORBIT\_PREDICTION} & XXX & ORBIT\_PREDICTION\_XXX\_YYY & EVENT\_KEYS (insert) [KEY: ORBIT\_PREDICTION\_XXX\_YYY] & Event for representing the \textbf{orbit predition information of a specific orbit} & UTC time related to the ANX of orbit N & UTC time related to the ANX of orbit N + 1 \\ \hline
 \textbf{***\_CORRECTION} & XXX & \- CORRECTED\_NPPF\_XXX & ERASE\_and\_REPLACE (insert\_and\_erase) & Event for representing the \textbf{planning events corrected using the orbit prediction events} & Start of the planned event corrected using the ORBPRE & Stop of the planned event corrected using the ORBPRE \\ \hline
 \textbf{DFEP\_SCHEDULE\_COMPLETENESS} & XXX & \- COMPLETENESS\_NPPF\_XXX & ERASE\_and\_REPLACE (insert\_and\_erase) & Event for representing the \textbf{expectation of the DFEP schedule} & Corrected start of the planned playback + 2s (SAD/HKTM) or + 9s (MSI); (if start \textgreater  stop) Corrected stop of the planned playback - 4s & Start (SAD/HKTM) or Corrected stop of the planned playback - 9s (MSI); (if start \textgreater  stop) Corrected stop of the planned playback - 3s \\ \hline
 \textbf{STATION\_SCHEDULE\_COMPLETENESS} & XXX & \- COMPLETENESS\_NPPF\_XXX & ERASE\_and\_REPLACE (insert\_and\_erase) & Event for representing the \textbf{expectation of the Station schedule} & Corrected start of the planned playback + 2s (SAD/HKTM) or + 9s (MSI); (if start \textgreater  stop) Corrected stop of the planned playback - 4s & Start (SAD/HKTM) or Corrected stop of the planned playback - 9s (MSI); (if start \textgreater  stop) Corrected stop of the planned playback - 3s \\ \hline
@@ -58,3 +58,47 @@ The table \ref{tb:description_events_ingestion_orbpre} shows the description of 
 \label{tb:description_events_ingestion_orbpre}
 \end{longtable}
 \end{landscape}
+
+\section{Ingestion details}
+
+This section describes some ingestion details for inserting the data. In particular:
+
+\begin{itemize} 
+
+\item The algorithm to correct the timing of the planning events
+  
+\end{itemize}
+
+The algorithm to correct the timing of the planning events is as follows:
+
+For every planning event:
+
+\begin{itemize} 
+
+\item Get satellite ID, start and stop orbits and start and stop angles.
+
+\item Get the \acrshort{anx} time from the orbit prediction information covering the previous orbits and the following ones
+
+\item Apply the following formula to the start and stop angles (\(\alpha\)) using the orbital period (p) and the corresponding \acrshort{anx} timing (t):
+
+  \(sin_1 = sin(\alpha)\)
+
+  \(sin_2 = sin(2*\alpha)\)
+
+  \(cos_1 = cos(\alpha)\)
+
+  \(cos_2 = cos(2*\alpha)\)
+
+  \(cos_3 = cos(3*\alpha)\)
+
+  Adjust angle to a circunference (perfect distribution in 360º):
+  
+  \(m = \alpha - 0.13175612 - 2*(-0.0001529)*sin_1 - 2*(-0.0660818)*cos_1 - 2*0.16855853*sin_2 - 2*(-0.0007759)*cos_2 - 2*0.0009872*cos_3 - 2*0.00687159*sin_2\)
+
+  Transform angle to \(\delta\) time:
+  
+  \(s = (m * p)/360.0\)
+
+  \(UTC time = t + s \)
+  
+\end{itemize}

diff --git a/doc/tex/ingestion_dpc.tex b/doc/tex/ingestion_dpc.tex
@@ -1,0 +1,46 @@
+\section{Ingestion module for the REP\_OPDPC file}
+
+This sections describes the ingestion module for inserting the \acrshort{dpc} processing analysis.
+
+The associated ingestion processor is:
+
+\begin{itemize} 
+
+\item \textbf{s2boa.ingestions.ingestion\_dpc.ingestion\_dpc}
+  
+\end{itemize}
+
+This module uses the following \acrshort{dim} signatures:
+
+\begin{itemize} 
+
+\item \textbf{PROCESSING\_XXX}: data corresponding to the processing analysis.
+
+\item \textbf{COMPLETENESS\_NPPF\_XXX}: data corresponding to the definition of planning completeness used for analysis.
+
+\item \textbf{ISP\_VALIDITY\_PROCESSING\_COMPLETENESS\_XXX}: data corresponding to the definition of \acrshort{isp} processing completeness used for analysis.
+
+\item \textbf{INDEXING\_XXX}: data corresponding to the indexing analysis of products.
+
+\item \textbf{ARCHIVING}: data corresponding to the archiving analysis of products.
+
+\item \textbf{CATALOGING}: data corresponding to the cataloging analysis of products.
+
+\item \textbf{LONG\_TERM\_ARCHIVING}: data corresponding to the cataloging analysis of products.
+
+\end{itemize}
+
+Where XXX is the corresponding satellite id.
+
+The figure \ref{fg:structure_ingestion_dpc} shows a simplified diagram of the structure of events inserted (associated structure of values not included for simplicity).
+
+\begin{figure}[H]
+  \begin{center}
+	\centering\includegraphics[width=150mm]{../fig/structure_ingestion_dpc.png}
+	\caption{Structure of events inserted by the ingestion module for the REP\_OPDPC file}
+	\label{fg:structure_ingestion_dpc}
+  \end{center}
+\end{figure}
+
+The table \ref{tb:description_events_ingestion_dpc} shows the description of the events inserted by the ingestion.
+

diff --git a/doc/tex/ingestion_station_schedule.tex b/doc/tex/ingestion_station_schedule.tex
@@ -22,12 +22,12 @@ This module uses the following \acrshort{dim} signatures:
 
 Where XXX is the corresponding satellite id and WWW to the station ID.
 
-The figure \ref{fg:structure_ingestion_station_schedule} shows a simplified diagram of the structure of the data inserted (associated structure of values not included for simplicity).
+The figure \ref{fg:structure_ingestion_station_schedule} shows a simplified diagram of the structure of events inserted (associated structure of values not included for simplicity).
 
 \begin{figure}[H]
   \begin{center}
 	\centering\includegraphics[width=150mm]{../fig/structure_ingestion_station_schedule.png}
-	\caption{Structure of the data inserted by the ingestion module for the MPL\_SP file}
+	\caption{Structure of events inserted by the ingestion module for the MPL\_SP file}
 	\label{fg:structure_ingestion_station_schedule}
   \end{center}
 \end{figure}

diff --git a/doc/tex/ingestion_dfep_schedule.tex b/doc/tex/ingestion_dfep_schedule.tex
@@ -22,12 +22,12 @@ This module uses the following \acrshort{dim} signatures:
 
 Where XXX is the corresponding satellite id and WWW to the station ID.
 
-The figure \ref{fg:structure_ingestion_dfep_schedule} shows a simplified diagram of the structure of the data inserted (associated structure of values not included for simplicity).
+The figure \ref{fg:structure_ingestion_dfep_schedule} shows a simplified diagram of the structure of events inserted (associated structure of values not included for simplicity).
 
 \begin{figure}[H]
   \begin{center}
 	\centering\includegraphics[width=150mm]{../fig/structure_ingestion_dfep_schedule.png}
-	\caption{Structure of the data inserted by the ingestion module for the MPL\_FS file}
+	\caption{Structure of events inserted by the ingestion module for the MPL\_FS file}
 	\label{fg:structure_ingestion_dfep_schedule}
   \end{center}
 \end{figure}

diff --git a/doc/tex/ingestion_slot_request_edrs.tex b/doc/tex/ingestion_slot_request_edrs.tex
@@ -22,12 +22,12 @@ This module uses the following \acrshort{dim} signatures:
 
 Where XXX is the corresponding satellite ID.
 
-The figure \ref{fg:structure_ingestion_slot_request_edrs} shows a simplified diagram of the structure of the data inserted (associated structure of values not included for simplicity).
+The figure \ref{fg:structure_ingestion_slot_request_edrs} shows a simplified diagram of the structure of events inserted (associated structure of values not included for simplicity).
 
 \begin{figure}[H]
   \begin{center}
 	\centering\includegraphics[width=150mm]{../fig/structure_ingestion_slot_request_edrs.png}
-	\caption{Structure of the data inserted by the ingestion module for the SRA file}
+	\caption{Structure of events inserted by the ingestion module for the SRA file}
 	\label{fg:structure_ingestion_slot_request_edrs}
   \end{center}
 \end{figure}

diff --git a/doc/tex/ingestion_nppf.tex b/doc/tex/ingestion_nppf.tex
@@ -24,12 +24,12 @@ This module uses the following \acrshort{dim} signatures:
 
 Where XXX is the corresponding satellite id.
 
-The figure \ref{fg:structure_ingestion_nppf} shows a simplified diagram of the structure of the data inserted (associated structure of values not included for simplicity).
+The figure \ref{fg:structure_ingestion_nppf} shows a simplified diagram of the structure of events inserted (associated structure of values not included for simplicity).
 
 \begin{figure}[H]
   \begin{center}
 	\centering\includegraphics[width=150mm]{../fig/structure_ingestion_nppf.png}
-	\caption{Structure of the data inserted by the ingestion module for the MPL\_NPPF file}
+	\caption{Structure of events inserted by the ingestion module for the MPL\_NPPF file}
 	\label{fg:structure_ingestion_nppf}
   \end{center}
 \end{figure}

diff --git a/doc/tex/acronyms.tex b/doc/tex/acronyms.tex
@@ -37,3 +37,7 @@
 \newacronym{vcid}{VCID}{Virtual Channel Identifier}
 
 \newacronym{isp}{ISP}{Instrument Source Packet}
+
+\newacronym{anx}{ANX}{Ascending Node Crossing}
+
+\newacronym{dpc}{DPC}{Data Processing Center}

diff --git a/doc/tex/s2boa_ingestions.tex b/doc/tex/s2boa_ingestions.tex
@@ -41,3 +41,6 @@ This chapter describes each of the ingestion modules in the following sections. 
 
 % Ingestion of the REP_PASS_E
 \input{ingestion_eisp.tex}
+
+% Ingestion of the REP_OPDPC
+\input{ingestion_dpc.tex}
